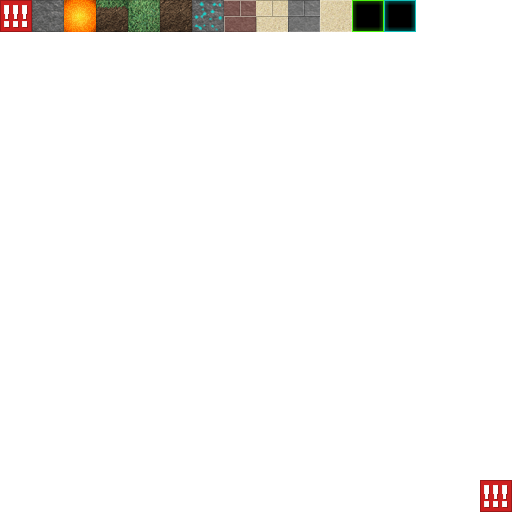
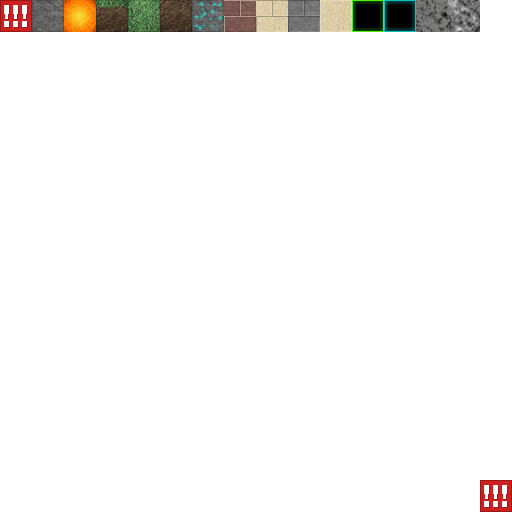
ok

Changed region(s): [[0.8125, 0.0, 0.9375, 0.0625]]

diff --git a/server/dats/cube_dat.py b/server/dats/cube_dat.py
@@ -159,4 +159,28 @@ dat = {   0: {   'active': False,
              'occludes': True,
              'solid': True,
              'texture_id': [12, 12, 12, 12, 12, 12],
+             'transparent': 0},
+    150: {   'active': True,
+             'gravity': 0,
+             'hud_img': -1,
+             'hud_pos': -1,
+             'max_damage': 32,
+             'name': 'rock1',
+             'neutron_tolerance': 2,
+             'nuclear': 0,
+             'occludes': True,
+             'solid': True,
+             'texture_id': [13, 13, 13, 13, 13, 13],
+             'transparent': 0},
+    151: {   'active': True,
+             'gravity': 0,
+             'hud_img': -1,
+             'hud_pos': -1,
+             'max_damage': 32,
+             'name': 'rock2',
+             'neutron_tolerance': 2,
+             'nuclear': 0,
+             'occludes': True,
+             'solid': True,
+             'texture_id': [14, 14, 14, 14, 14, 14],
              'transparent': 0}}

diff --git a/server/run.py b/server/run.py
@@ -48,8 +48,9 @@ _n = time.time()
 #print '512**3 interpolated 4,4,4 took %f seconds' % (time.time() - _n) # 71 seconds!
 
 #c_lib.map_gen.interpolate(128, 128, 128, 4, 4, 2)
-c_lib.map_gen.gradient(128,128,128)
-print '128**3 interpolated 4,4,2 took %f seconds' % (time.time() - _n)
+if False:
+    c_lib.map_gen.gradient(128,128,128)
+    print '128**3 interpolated 4,4,2 took %f seconds' % (time.time() - _n)
 
 #perlin = c_lib.map_gen.Perlin(octaves=6)
 #baseline=10
@@ -108,9 +109,14 @@ class Main:
 
     def __init__(self):
         ##setup
+
         if opts.opts.map:
+            print "str= %s" % (opts.opts.map)
             terrain_map.load_from_disk(opts.opts.map)
         else:
+            terrain_map.load_from_disk("angus")
+
+        if False:
             pass
             ##map_gen.load_map2(terrain_map)
             #map_gen.load_map3(terrain_map)

diff --git a/netclient/c_lib/agent/agent.hpp b/netclient/c_lib/agent/agent.hpp
@@ -6,6 +6,34 @@
 #include <c_lib/compat_gl.h>
 #endif
 
+//store last network messsage
+struct Agent_state_snapshot_net {
+    int seq;
+    float theta;
+    float phi;        
+    float x,y,z;
+    float vx,vy,vz;
+};
+
+//for rollbacks of a few ticks
+struct Agent_state_snapshot_rollback {
+    int seq;
+    float theta;
+    float phi;        
+    float x,y,z;
+    float vx,vy,vz;
+};
+
+struct Agent_control_state {
+    
+    //int id;
+    int seq;
+    float theta;
+    float phi;        
+    uint32_t cs;
+
+};
+
 struct Agent_control_state {
 	
 	//int id;
@@ -25,6 +53,9 @@ class Agent_state {
 
         int cs_seq;
         struct Agent_control_state cs[128];
+
+
+
         int tick_n; //increment when ticking
         int ctick;  //increment when control state received
         float theta;
